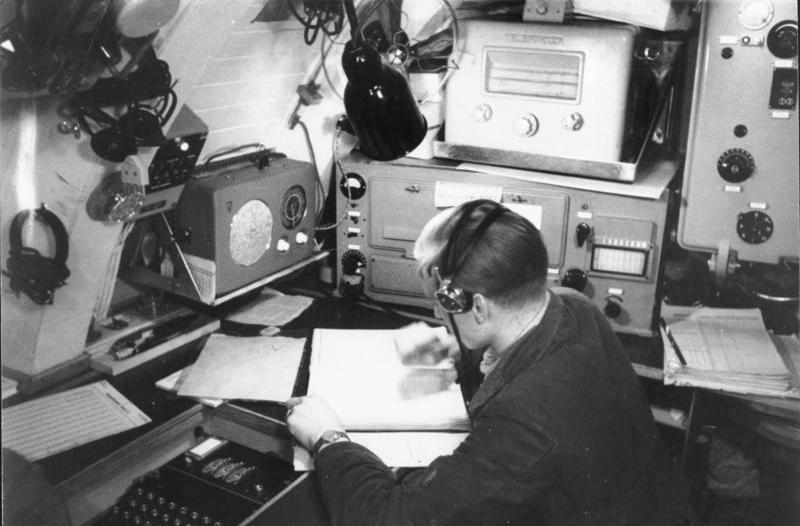
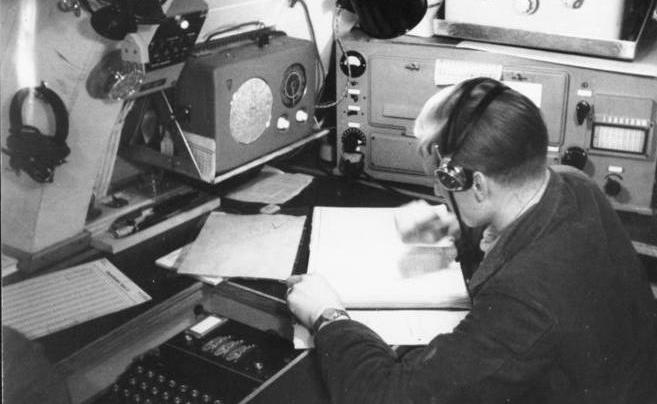
Fixed background image

diff --git a/enigma_app/static/css/style.css b/enigma_app/static/css/style.css
@@ -1,16 +1,43 @@
 @import 'https://fonts.googleapis.com/css?family=Special+Elite';
 
+html {
+  height: 100%;
+}
+
 body {
+  background: black;
+  background-image: url('../img/enigmaoperator.jpg');
   background-repeat: no-repeat;
+  background-size: cover;
+  background-position: center;
+  height: 100%;
+  margin: 0;
+  padding: 0;
+}
+
+#wrapper {
+  height: 100%;
+  min-height: 100%;
+  width: 100%;
+  margin: 0;
+  padding: 0;
+  background-image: linear-gradient(rgba(255, 0, 0, 0.5), rgba(0, 0, 0, 0.5));
   background-size: cover;
 }
 
 #greeting {
   text-align: center;
-  width: 100%;
-  margin: 10% auto;
+  width: 40%;
+  margin: auto;
+  padding: 10% 0;
+  vertical-align: middle;
+  font-family: 'Special Elite';
+  font-weight: lighter;
+  line-height: 1.5;
+  color: mintcream;
+  text-shadow: 0px 0px 50px #211;
 }
 
 #greeting img {
-  max-width: 40%;
+  max-width: 100%;
 }

diff --git a/enigma_app/templates/index.html b/enigma_app/templates/index.html
@@ -8,8 +8,11 @@
     <link rel="stylesheet" type="text/css" href="{% static 'css/style.css' %}">
   </head>
   <body>
-    <div id="greeting">
-      <img src="{% static 'img/Enigma-logo.svg' %}">
+    <div id="wrapper">
+      <div id="greeting">
+        <img src="{% static 'img/Enigma-logo.svg' %}">
+        <h2>A digital replica of the most notorious cryptographic device of World War II.</h2>
+      </div>
     </div>
   </body>
 </html>
